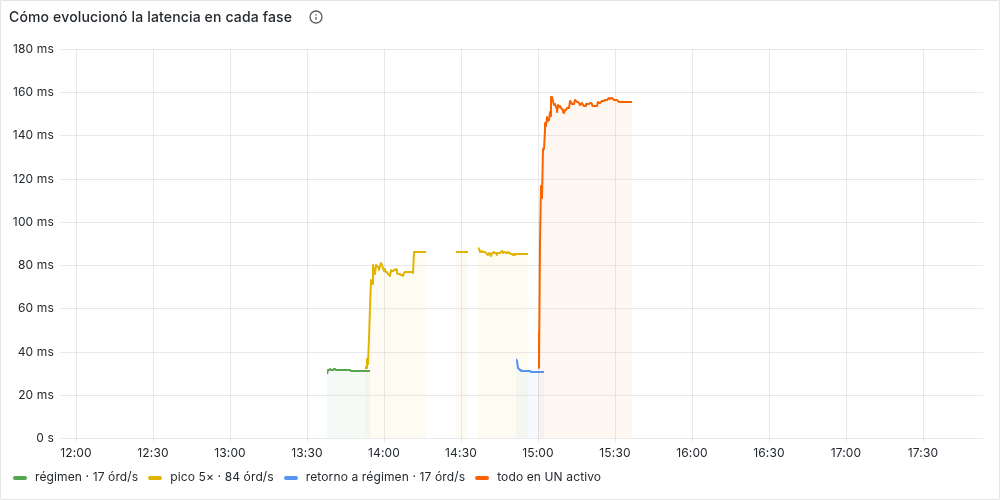
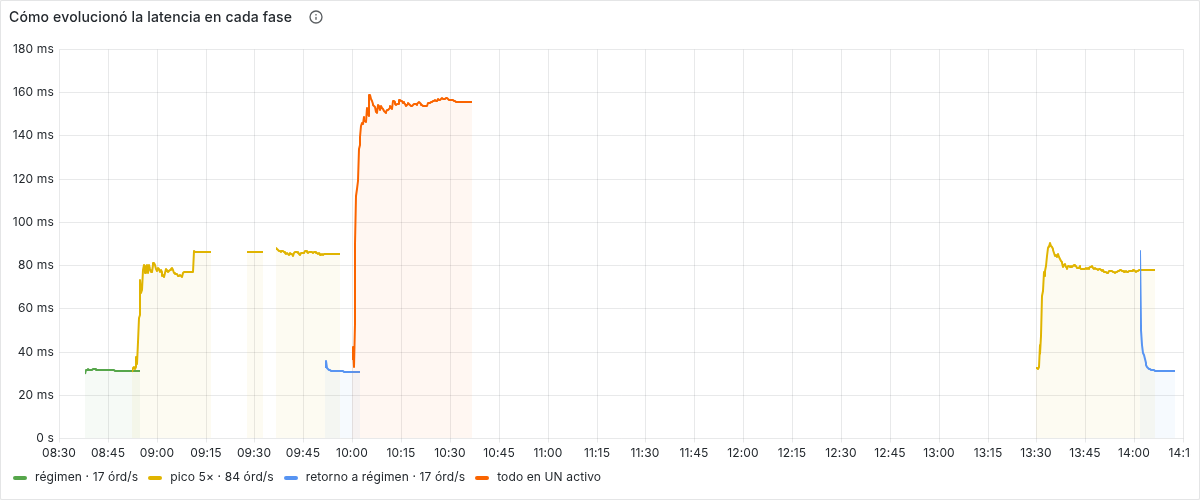
docs: F2 oficial cierra limpia y la evidencia queda completa
La fase contractual se habia contaminado cuando la maquina se suspendio
27 minutos en mitad del pico. Re-medida de cero, cierra con las 40/40:

  F2 · 30 min de pico 5x sostenido   p95 = 77,68 ms   (2,6x de margen)
  F3 · retorno a regimen             p95 = 31,01 ms   contra 31,09 de F1

F3 responde por primera vez la clausula de la ficha -- que al bajar la
latencia vuelva --, con 0,08 ms de diferencia: la mitad del ruido del
banco. Hasta este ciclo el retorno vivia dentro de la ventana del pico y
sus percentiles quedaban promediados con los que habia que superar.

La fase larga tambien mide el sesgo del perfil corto: las cuatro sondas
al mismo punto dieron 86,7 ms de media, un 12 % por encima. Sobrestima
siempre hacia arriba, asi que las sondas ubican el quiebre y las fases
largas dictan el veredicto.

- experimento.sh adopta la regla del percentil efectivo que ya usaba
  analizar.py: 26 descartes dan p94,95 y 20.054 dan p69,3, no son lo
  mismo. El aviso ahora dice a que percentil corresponde la cifra.
- Imagenes del tablero rehechas con los 40 datos, y declarado por que
  sus cifras corren por encima de las tablas: el tablero solo lee
  percentiles de ventana de 5 s, el veredicto sale del resumen agregado.

diff --git a/docs/evidencia-corridas.md b/docs/evidencia-corridas.md
@@ -15,7 +15,7 @@ El contrato son dos requisitos de calidad críticos: **ASR-02**, la latencia en 
 
 > **H1 — Latencia · confirmada.** En operación normal el motor responde en **31,09 ms**: 6,4 veces por debajo del presupuesto. Y su cláusula también se sostiene — registrar cada orden en paralelo cuesta **+0,9 %** de la mediana; ponerlo en el camino crítico cuesta **+19 %**.
 >
-> **H2 — Escalabilidad · confirmada, y con una ley.** El punto de quiebre escala casi exacto con las particiones: **92 · 181 · 360 órdenes por segundo** para 1, 2 y 4. El pico contractual son 84, así que **una sola partición basta** — dos son margen, no necesidad.
+> **H2 — Escalabilidad · confirmada, y con una ley.** Media hora de pico sostenido a cinco veces la carga normal: **77,68 ms**, y al bajar la latencia vuelve a la de régimen con 0,08 ms de diferencia. Y el punto de quiebre escala casi exacto con las particiones: **92 · 181 · 360 órdenes por segundo** para 1, 2 y 4. El pico contractual son 84, así que **una sola partición basta** — dos son margen, no necesidad.
 >
 > **H2b — Partición caliente · refutada.** Predecía que el motor se caería antes de llegar al pico completo concentrado en un solo activo. No se cae: **155,39 ms**, con 1,3× de margen.
 >
@@ -103,11 +103,26 @@ H1 incluye una condición que suele ser la primera en romperse — el registro d
 
 ASR-03 pide subir de la carga normal al pico de cinco veces, sostenerlo treinta minutos y seguir respondiendo a tiempo. La ficha agrega una condición que el requisito da por hecha: que al bajar, **la fila se vacíe y la latencia vuelva** a la de operación normal. El pico exigido es transitorio, no permanente.
 
-*La fase contractual completa —treinta minutos de pico sostenido más el retorno a régimen— se está midiendo en este momento. Sus cifras entran aquí al cerrar. Lo que ya está medido del mismo punto de operación son cuatro sondas independientes a 84 órdenes por segundo sobre dos particiones: **86,22 · 86,42 · 87,00 · 87,07 ms**.*
+**Aguanta con 2,6 veces de margen, y vuelve.**
+
+| | Órdenes | p50 | **p95** | p99 | p99.9 | máx |
+|---|---|---|---|---|---|---|
+| **F2 · pico 5×**, 30 min sostenidos | 167.429 | 5,54 ms | **77,68 ms** | 140,98 ms | 229,63 ms | 523,28 ms |
+| **F3 · retorno**, de vuelta a 17 órd/s | | 7,01 ms | **31,01 ms** | 135,40 ms | 143,65 ms | 164,32 ms |
+| **Motor** · espera | | 0,03 ms | **49,66 ms** | | 212,48 ms | 503,04 ms |
+| **Motor** · servicio | | 4,60 ms | **27,60 ms** | | 137,98 ms | 138,50 ms |
+
+Cero órdenes perdidas por el generador, cero rechazos y cero errores de reparto en los 39 minutos. Las dos particiones se llevaron 83.795 y 83.634 órdenes —un 50,05 / 49,95 %— y la suma da 167.429, exactamente lo que contó el generador.
+
+> **F3 responde la cláusula: 31,01 ms contra los 31,09 ms de F1.** La latencia vuelve con una diferencia de 0,08 ms, la mitad del ruido del banco. La fila del pico se drena y no deja huella.
+
+Esa comparación era imposible hasta este ciclo. El retorno vivía dentro de la misma ventana que el pico, así que sus percentiles quedaban promediados con los que había que superar. Ahora es un escenario aparte, con su propio umbral.
+
+**Y aquí aparece por primera vez el sesgo del perfil corto.** Cuatro sondas de cuatro minutos y medio, al mismo punto de operación, dieron **86,22 · 86,42 · 87,00 · 87,07 ms**: un 12 % por encima de los 77,68 de la fase larga. La sonda llega al pico en 30 segundos y la fase contractual se toma dos minutos, así que mide la rampa tanto como el régimen. Sobrestima siempre en la misma dirección, y eso la vuelve útil para ubicar el quiebre y peligrosa para dictar el veredicto.
 
 ### ¿Cuántas particiones bastan?
 
-**Una.** La misma carga de 84 órdenes por segundo, primero sobre una partición, después sobre dos y sobre cuatro:
+**Una.** La misma carga de 84 órdenes por segundo, primero sobre una partición, después sobre dos y sobre cuatro. Son sondas cortas, así que las tres cargan el mismo sesgo hacia arriba y la comparación entre ellas es limpia:
 
 | Particiones | **p95 del cliente** | espera p95 | servicio p95 | |
 |---|---|---|---|---|
@@ -197,7 +212,7 @@ Las dos aterrizan a 11 ms de distancia porque están haciendo exactamente lo mis
 
 **Dónde sí se cae.** Subiendo la tasa sobre el activo caliente, la latencia se dispara igual de rápido que en el caso N=1: **604 ms a 100 órdenes por segundo**, 625 a 110 y 772 a 120. El quiebre queda justo encima del pico contractual, donde la ley de H2 lo pone.
 
-La sonda corta a 84 no se puede usar para ubicarlo: perdió 131 órdenes, lo que baja su cifra a un p94,0, y además marcó 341 ms donde la fase larga marcó 155. La culpable es la rampa —la sonda llega al pico en 30 segundos y la fase contractual se toma dos minutos—, y por eso el veredicto lo dicta la fase larga.
+La sonda corta a 84 no se puede usar para ubicarlo: perdió 131 órdenes, lo que baja su cifra a un p94,0, y además marcó 341 ms donde la fase larga marcó 155. La culpable es la rampa: la sonda llega al pico en 30 segundos y la fase contractual se toma dos minutos. Por eso el veredicto lo dicta la fase larga.
 
 ## El entregable: cuánto puede costar una orden
 
@@ -238,7 +253,7 @@ Este es el número verificable, el que no depende del supuesto de los 8 ms. Se b
 servicio p50=4603us  p95=27599us  p99.9=137983us
 ```
 
-Tres puntos de la distribución declarada, reproducidos dentro de la resolución del histograma. **Y ese `servicio p95` sale en 27,60 ms en veintisiete de las treinta corridas que declararon 8 ms**, sin importar cuántas particiones ni cuánta carga. Solo se mueve en tres, y las tres se explican solas: con media CPU por partición sube a 89 ms, y en las dos corridas que ahogaron la máquina —cuatro particiones más novecientos clientes sobre 14 núcleos— a 32.
+Tres puntos de la distribución declarada, reproducidos dentro de la resolución del histograma. **Y ese `servicio p95` sale en 27,60 ms en veintiocho de las treinta y una corridas que declararon 8 ms**, sin importar cuántas particiones ni cuánta carga. Solo se mueve en tres, y las tres se explican solas: con media CPU por partición sube a 89 ms, y en las dos corridas que ahogaron la máquina —cuatro particiones más novecientos clientes sobre 14 núcleos— a 32.
 
 Es la prueba de que las diferencias que esta página reporta vienen de la cola, no de un banco que se movió por debajo.
 
@@ -250,8 +265,13 @@ Es la prueba de que las diferencias que esta página reporta vienen de la cola, 
 
 Un rango de 0,85 ms sobre una media de 86,68: **±0,5 %**. De ahí sale la regla de lectura: una diferencia del orden del 1 % no es señal. El +55 % del confinamiento a un núcleo y el +19 % de la bitácora en serie sí lo son, por dos órdenes de magnitud.
 
-![Órdenes procesadas en cada corrida](imagenes/panorama.png)
+![Las cuarenta corridas de la sesión, cada una su propia rampa](imagenes/panorama.png)
+
+Esa figura es la sesión entera: cuarenta rampas, cada una una corrida. La meseta plana de las 09:15 es la única anomalía del día: la máquina se suspendió 27 minutos en mitad del pico oficial. Esa corrida se retiró y se volvió a medir de cero a las 13:27 — la rampa larga de la derecha, la que dicta el veredicto de ASR-03.
+
 ![Esperando en fila contra trabajando](imagenes/espera-servicio.png)
+
+**Las cifras del tablero y las de esta página no son la misma cuenta.** El tablero solo puede leer lo que el generador publica cada cinco segundos: percentiles de ventana. Tomar un percentil de percentiles corre unos puntos por encima del agregado: 86 contra 77,68 ms en la fase del pico. Una ventana de cinco segundos mide cuatrocientas órdenes; la fase completa mide ciento sesenta y siete mil. **El tablero sirve para ver la corrida mientras pasa; el veredicto lo dicta el resumen que el generador emite al cerrar**, y es el que está en las tablas de arriba.
 
 **Y el reparto nunca falló.** Cero violaciones de reparto, cero órdenes rechazadas y cero respuestas con error: cada símbolo lo respondió siempre la misma partición. También en las doce corridas que empujaron al motor más allá de su techo y le perdieron órdenes al generador.
 
@@ -296,7 +316,7 @@ Es atribución por eliminación, no medición directa. Confirmarlo exige instrum
 - **La latencia por encima del quiebre no está medida.** Pasado el techo el generador deja de emitir órdenes, y lo que descarta son las de los peores momentos: el p95 que reporta es en realidad un p79 o un p69. Esas corridas sirven para leer dónde está el quiebre, nunca cuánto se degrada después.
 - **El freno de entrada sigue sin probarse.** Ni el anillo del motor ni la fila del router se acercaron a su límite en ninguna corrida — ni siquiera en las que perdieron veinte mil órdenes. Que no se hayan activado no dice nada sobre si protegen.
 - **Los atascos del anfitrión están atribuidos por eliminación**, no medidos.
-- **El perfil corto sobrestima cuando la rampa es abrupta.** La sonda de cuatro minutos y medio llega al pico en 30 segundos; la fase contractual se toma dos minutos. En la partición caliente esa diferencia dio 341 ms contra 155 ms **con la misma configuración**. Las sondas cortas ubican el quiebre; las fases largas dictan el veredicto.
+- **El perfil corto sobrestima, y siempre hacia arriba.** La sonda de cuatro minutos y medio llega al pico en 30 segundos; la fase contractual se toma dos minutos, así que la sonda mide la rampa tanto como el régimen. Con el pico repartido el sesgo es del **12 %** (86,7 contra 77,68 ms); con la partición caliente, del **120 %** (341 contra 155 ms). Las sondas cortas ubican el quiebre; las fases largas dictan el veredicto.
 
 ## Cómo repetir todo esto
 
